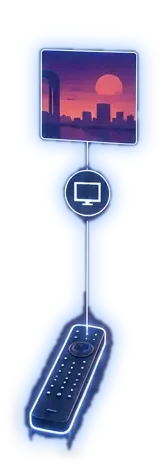
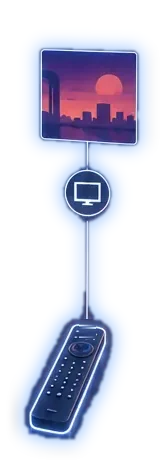
窥探之眼：漫画书、游戏机按手描外形重抠；整列 = 上半截原图 + 干净的物件；选中后其余物件保持亮
- go_manga / go_game 改用手描多边形抠，书完整、游戏机不再带出旁边的书角和背景
- gc_*：面板 + 图标 + 线取自原图（图标以下只留线本身 ±7px），到物件顶上为止；下面直接用 go_* 那块干净的物件
- 选中一个后，其他四样东西照样亮着（只有面板/线/名字跟着选中的走）

Claude-Session: https://claude.ai/code/session_01TSyEwZEwvoN7y1zL8fqiLP

diff --git a/apps/eye/eye.js b/apps/eye/eye.js
@@ -8,7 +8,7 @@
 // 内容都是样例；生成之后接
 import { S, D, $, $$, page, reg, toast, saveD, esc, openApp } from '../../core.js';
 
-const CSS = new URL('./eye.css?v=9', import.meta.url).href;
+const CSS = new URL('./eye.css?v=10', import.meta.url).href;
 const css = () => new Promise(r => { const old = document.querySelector('link[data-eye]'); if (old) return old.sheet ? r() : old.addEventListener('load', () => r(), { once: true }); const l = document.createElement('link'); l.rel = 'stylesheet'; l.dataset.eye = 1; l.href = CSS; l.onload = l.onerror = () => r(); document.head.append(l); setTimeout(r, 1500); });
 const IMG = f => new URL(`../../assets/eye/${f}.webp`, import.meta.url).href;
 const PXF = new URL('../../assets/fonts/px-eye.woff', import.meta.url).href;

diff --git a/apps/eye/eye.css b/apps/eye/eye.css
@@ -92,7 +92,7 @@
 .gobj, .gcol { position: absolute; display: block; pointer-events: none; }
 .gobj { animation: gobj 3s ease-in-out infinite; animation-delay: calc(var(--i) * -.6s); transition: opacity .35s; }
 @keyframes gobj { 50% { opacity: .6 } }
-.eye-guide.picked .gobj { animation: none; opacity: 0; }
+.eye-guide.picked .gobj { animation: none; opacity: 1; }
 .gcol { opacity: 0; transition: opacity .35s; filter: brightness(1.15); }
 .gcol.on { animation: glit .8s steps(1) forwards; }
 @keyframes glit { 0% { opacity: .2 } 15% { opacity: 1 } 25% { opacity: .35 } 40%, 100% { opacity: 1 } }
